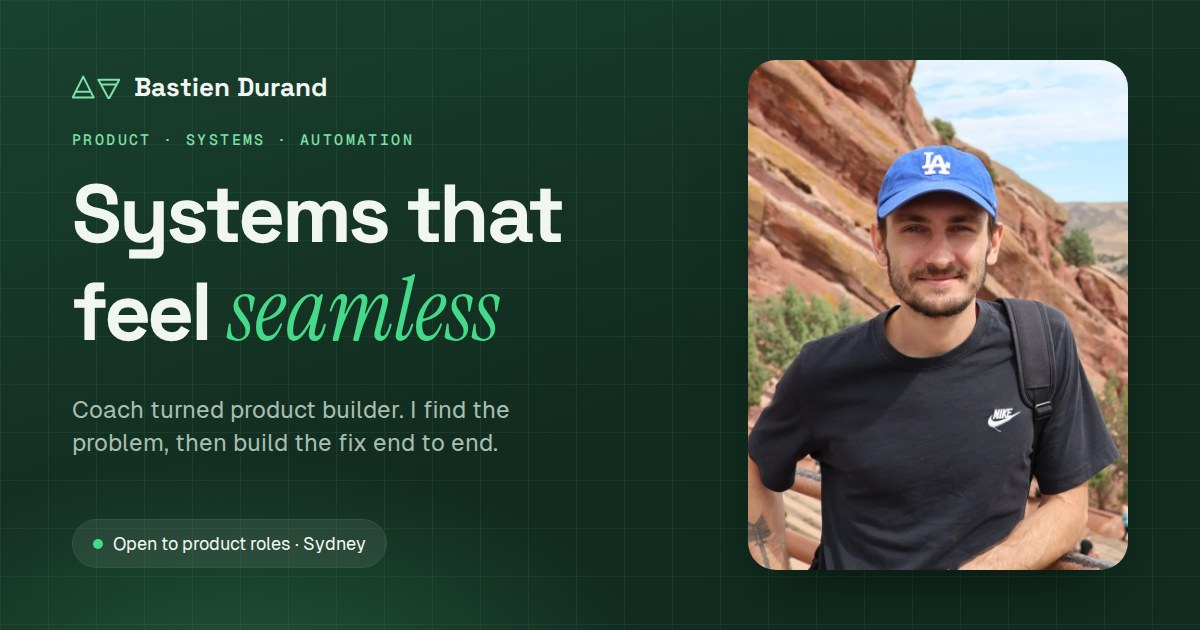
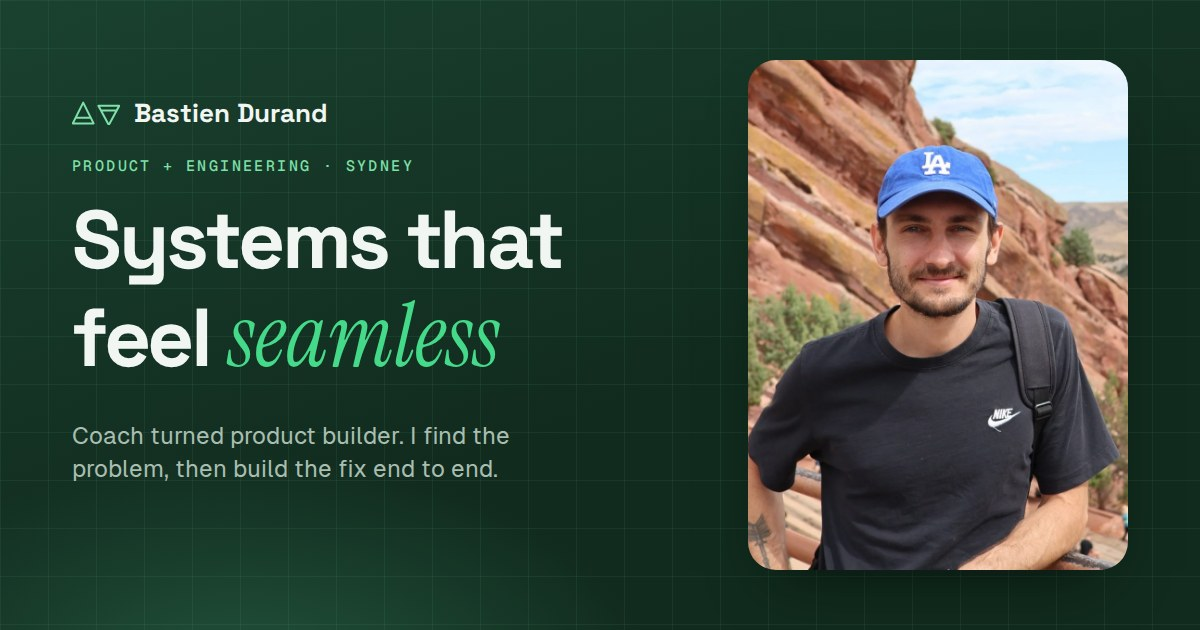
Act on peer feedback: clearer roles, tighter Beyond, no status pill
- Hide the product-tab scrollbar on mobile
- Remove the 'Open to product roles' pill (hero + link preview)
- Hero eyebrow: Product + Engineering; new 'What I'm looking for' section after
  the stats with PM / Technical PM / Full-stack roles
- Beyond the work: drop Startups, Agentic and People
- Bottom section becomes a plain 'Let's talk' contact block

Claude-Session: https://claude.ai/code/session_01ThjWvxZ5Yh3BuYeoYeAW1F

Changed region(s): [[0.0617, 0.1206, 0.4933, 0.6032], [0.0617, 0.6333, 0.4317, 0.754], [0.0617, 0.8444, 0.3083, 0.9048]]

diff --git a/index.html b/index.html
@@ -133,7 +133,8 @@ h1,h2,h3{font-family:var(--display);margin:0;letter-spacing:-.03em;text-wrap:bal
 /* work / switcher */
 .work .wrap{padding-block:96px 40px}
 .work-head{display:flex;justify-content:space-between;align-items:flex-end;gap:32px;flex-wrap:wrap;margin-bottom:40px}
-.tabs{display:flex;gap:6px;background:var(--surface);border:1px solid var(--line);border-radius:999px;padding:5px;overflow-x:auto;max-width:100%}
+.tabs{display:flex;gap:6px;background:var(--surface);border:1px solid var(--line);border-radius:999px;padding:5px;overflow-x:auto;max-width:100%;scrollbar-width:none;-webkit-overflow-scrolling:touch}
+.tabs::-webkit-scrollbar{display:none}
 .tab{flex:none;border:0;cursor:pointer;border-radius:999px;padding:10px 16px;min-height:44px;font:500 14px var(--body);background:transparent;color:var(--muted);white-space:nowrap;transition:background .25s,color .25s}
 .tab[aria-selected="true"]{background:var(--forest);color:var(--on-dark)}
 .product{display:grid;grid-template-columns:380px 1fr;gap:56px;align-items:stretch}
@@ -339,6 +340,21 @@ a.client:hover .c-url{color:var(--green-dk)}
   .p-why{font-size:14px}
 }
 
+
+/* what I'm looking for */
+.seeking .wrap{padding-block:88px;display:grid;grid-template-columns:1fr 1fr;gap:64px;align-items:start}
+.seek-l{display:flex;flex-direction:column;gap:16px}
+.seek-r>p{margin:0 0 22px;font-size:19px;line-height:1.5;color:var(--muted)}
+.roles{list-style:none;margin:0;padding:0;border-top:1px solid var(--line)}
+.roles li{display:flex;justify-content:space-between;align-items:baseline;gap:12px;padding:16px 0;border-bottom:1px solid var(--line)}
+.roles b{font:700 22px var(--display);letter-spacing:-.01em}
+.roles span{font:500 12px var(--mono);color:var(--muted);letter-spacing:.04em;text-align:right}
+.roles li:first-child b{color:var(--green)}
+.seek-meta{display:flex;flex-wrap:wrap;gap:8px;margin-top:18px}
+.seek-meta span{font-size:13px;padding:7px 12px;border-radius:999px;background:var(--green-soft);color:var(--green-dk)}
+.c-sub{margin:0;font-size:17px;color:var(--on-dark-muted)}
+@media (max-width:900px){.seeking .wrap{grid-template-columns:1fr;gap:20px;padding-block:56px}.seek-r>p{font-size:16px}.roles b{font-size:18px}.roles span{font-size:11px}}
+
 /* contact */
 .contact .wrap{padding-block:110px 90px;display:grid;grid-template-columns:1fr 1fr;gap:80px;align-items:start}
 .contact h2{font-size:56px;line-height:1.02}
@@ -421,7 +437,7 @@ a.client:hover .c-url{color:var(--green-dk)}
 <section class="hero">
   <div class="wrap">
     <div class="hero-text">
-      <div class="eyebrow">Product · Systems · Automation · Sydney</div>
+      <div class="eyebrow">Product + Engineering · Sydney</div>
       <h1>Systems that feel <span class="em">seamless</span></h1>
       <p>Coach turned product builder. I find the problem by talking to the people who have it, then build the fix end to end.</p>
       <div class="ctas"><a class="btn btn-green" href="#work">See the work →</a><a class="btn btn-ghost" href="#how">How I work</a></div>
@@ -432,10 +448,9 @@ a.client:hover .c-url{color:var(--green-dk)}
       <svg class="tri-hi" viewBox="0 0 260 230" aria-hidden="true"><path d="M10 10 H250 L130 220 Z" fill="#E7F4EC" stroke="#18844A" stroke-width="4" stroke-linejoin="round"></path><line x1="36" y1="56" x2="224" y2="56" stroke="#18844A" stroke-width="4"></line></svg>
       <div class="tri-label" style="left:450px;top:42px"><b>4</b><span>products</span></div>
       <img class="hero-photo" src="assets/bastien.jpg" alt="Bastien Durand">
-      <div class="chip-open"><i></i>Open to product roles · Sydney</div>
     </div>
     <div class="hero-mobile">
-      <div class="photo"><img src="assets/bastien.jpg" alt="Bastien Durand"><div class="chip-open"><i></i>Open to product roles · Sydney</div></div>
+      <div class="photo"><img src="assets/bastien.jpg" alt="Bastien Durand"></div>
       <div class="tri-pair">
         <div><svg width="44" height="38" viewBox="0 0 300 260" aria-hidden="true"><path d="M10 250 L150 10 L290 250 Z" fill="none" stroke="#18844A" stroke-width="14" stroke-linejoin="round"></path></svg><span><b>11</b>client builds</span></div>
         <div><svg width="44" height="38" viewBox="0 0 260 230" aria-hidden="true"><path d="M10 10 H250 L130 220 Z" fill="#E7F4EC" stroke="#18844A" stroke-width="14" stroke-linejoin="round"></path></svg><span><b>4</b>products</span></div>
@@ -450,6 +465,24 @@ a.client:hover .c-url{color:var(--green-dk)}
     <div class="stat"><b>100<span class="plus">+</span></b><span>discovery conversations</span></div>
     <div class="stat"><b>685<span class="plus">%</span></b><span>club social growth</span></div>
     <div class="stat"><b>EN<span class="dot">·</span>RU<span class="dot">·</span>FR</b><span>languages</span></div>
+  </div>
+</section>
+
+<section class="seeking" id="seeking">
+  <div class="wrap">
+    <div class="seek-l reveal">
+      <div class="eyebrow">What I’m looking for</div>
+      <h2 class="sec-h">A product team that talks to its <span class="em">users</span></h2>
+    </div>
+    <div class="seek-r reveal" style="--d:.15s">
+      <p>Product and engineering in one. I talk to the people with the problem, decide what matters, then ship the fix myself.</p>
+      <ul class="roles" data-stagger="90">
+        <li><b>Product Manager</b><span>Primary focus</span></li>
+        <li><b>Technical PM / Product Owner</b><span>Close to engineering</span></li>
+        <li><b>Full-stack engineer</b><span>Product-minded teams</span></li>
+      </ul>
+      <div class="seek-meta"><span>Health tech a plus</span><span>Sydney</span><span>Discovery-led teams</span></div>
+    </div>
   </div>
 </section>
 
@@ -594,14 +627,7 @@ a.client:hover .c-url{color:var(--green-dk)}
       <div class="tile soft"><div class="center"><span class="badge" role="img" aria-label="Martial arts uniform">🥋</span></div><h3>Jiu-jitsu</h3><p>On the mats at Capincho</p></div>
       <div class="tile"><img src="assets/art.jpg" alt="Monet, Klimt, Hokusai and Kandinsky paintings"><span class="pill">Art &amp; poetry</span></div>
     </div>
-    <div class="pyr" data-stagger="120">
-      <div class="tile soft"><div class="center"><span class="badge"><svg viewBox="0 0 24 24" fill="none" stroke="#18844A" stroke-width="1.6" stroke-linecap="round" stroke-linejoin="round"><path d="M12 3c3.5 2 5 5.5 5 9.5L15 15H9l-2-2.5C7 8.5 8.5 5 12 3z"></path><circle cx="12" cy="9.5" r="1.8"></circle><path d="M9 15l-2.5 3.5L9 18M15 15l2.5 3.5L15 18M11 18.5l1 2.5 1-2.5"></path></svg></span></div><h3>Startups</h3><p>Founder stories, Spark Festival, giving back</p></div>
-      <div class="tile soft"><div class="center"><span class="badge"><svg viewBox="0 0 24 24" fill="none" stroke="#18844A" stroke-width="1.6" stroke-linecap="round" stroke-linejoin="round"><circle cx="12" cy="5" r="2.5"></circle><circle cx="5" cy="18" r="2.5"></circle><circle cx="19" cy="18" r="2.5"></circle><path d="M11 7.3L6.2 15.8M13 7.3l4.8 8.5M7.5 18h9"></path></svg></span></div><h3>Agentic orchestration &amp; systems</h3><p>How AI agents work together</p></div>
-    </div>
-    <div class="pyr one" data-stagger="0">
-      <div class="tile soft dk"><div class="center"><span class="badge"><svg viewBox="0 0 24 24" fill="none" stroke="#7FE0A8" stroke-width="1.6" stroke-linecap="round" stroke-linejoin="round"><circle cx="9" cy="8" r="3.5"></circle><path d="M2.5 20c1-3.5 3.5-5.5 6.5-5.5s5.5 2 6.5 5.5"></path><path d="M16 4.5a3.5 3.5 0 010 7M18.5 14.5c1.5.7 2.5 2.6 3 5.5"></path></svg></span></div><h3>People</h3><p>Connecting with people, the thread through all of it</p></div>
-    </div>
-    <ul class="int-mob" data-stagger="80"><li><span class="ic"><img src="assets/philosophy.jpg" alt=""></span><span><b>Philosophy &amp; psychology</b><small>How people think, and how to think better</small></span></li><li><span class="ic"><img src="assets/art.jpg" alt=""></span><span><b>Art &amp; poetry</b><small>Impressionism to abstraction</small></span></li><li><span class="ic"><span class="emo" aria-hidden="true">🥋</span></span><span><b>Jiu-jitsu</b><small>On the mats at Capincho</small></span></li><li><span class="ic"><svg viewBox="0 0 24 24" fill="none" stroke="#18844A" stroke-width="1.6" stroke-linecap="round" stroke-linejoin="round"><path d="M12 3c3.5 2 5 5.5 5 9.5L15 15H9l-2-2.5C7 8.5 8.5 5 12 3z"></path><circle cx="12" cy="9.5" r="1.8"></circle><path d="M9 15l-2.5 3.5L9 18M15 15l2.5 3.5L15 18M11 18.5l1 2.5 1-2.5"></path></svg></span><span><b>Startups</b><small>Founder stories, Spark Festival, giving back</small></span></li><li><span class="ic"><svg viewBox="0 0 24 24" fill="none" stroke="#18844A" stroke-width="1.6" stroke-linecap="round" stroke-linejoin="round"><circle cx="12" cy="5" r="2.5"></circle><circle cx="5" cy="18" r="2.5"></circle><circle cx="19" cy="18" r="2.5"></circle><path d="M11 7.3L6.2 15.8M13 7.3l4.8 8.5M7.5 18h9"></path></svg></span><span><b>Agentic orchestration &amp; systems</b><small>How AI agents work together</small></span></li><li><span class="ic"><svg viewBox="0 0 24 24" fill="none" stroke="#18844A" stroke-width="1.6" stroke-linecap="round" stroke-linejoin="round"><circle cx="9" cy="8" r="3.5"></circle><path d="M2.5 20c1-3.5 3.5-5.5 6.5-5.5s5.5 2 6.5 5.5"></path><path d="M16 4.5a3.5 3.5 0 010 7M18.5 14.5c1.5.7 2.5 2.6 3 5.5"></path></svg></span><span><b>People</b><small>Connecting with people, the thread through all of it</small></span></li></ul>
+    <ul class="int-mob" data-stagger="80"><li><span class="ic"><img src="assets/philosophy.jpg" alt=""></span><span><b>Philosophy &amp; psychology</b><small>How people think, and how to think better</small></span></li><li><span class="ic"><img src="assets/art.jpg" alt=""></span><span><b>Art &amp; poetry</b><small>Impressionism to abstraction</small></span></li><li><span class="ic"><span class="emo" aria-hidden="true">🥋</span></span><span><b>Jiu-jitsu</b><small>On the mats at Capincho</small></span></li></ul>
     <div class="shelf reveal">
       <div class="shelf-head"><span class="eyebrow">On my shelf</span><span>Books I keep recommending</span></div>
       <div class="shelf-view"><div class="shelf-track"><div class="book b-f"><svg viewBox="0 0 40 34" aria-hidden="true"><path d="M3 3 H37 L20 31 Z" fill="none" stroke="currentColor" stroke-width="2.5" stroke-linejoin="round"></path></svg><b>Super Communicators</b><span>Charles Duhigg</span><img class="cover" src="https://covers.openlibrary.org/b/isbn/9780593243916-L.jpg?default=false" alt="Super Communicators by Charles Duhigg" decoding="async" onerror="this.remove()"></div><div class="book b-m"><svg viewBox="0 0 40 34" aria-hidden="true"><path d="M3 3 H37 L20 31 Z" fill="none" stroke="currentColor" stroke-width="2.5" stroke-linejoin="round"></path></svg><b>Negotiating the Impossible</b><span>Deepak Malhotra</span><img class="cover" src="https://covers.openlibrary.org/b/id/8813974-L.jpg?default=false" alt="Negotiating the Impossible by Deepak Malhotra" decoding="async" onerror="this.remove()"></div><div class="book b-c"><svg viewBox="0 0 40 34" aria-hidden="true"><path d="M3 3 H37 L20 31 Z" fill="none" stroke="currentColor" stroke-width="2.5" stroke-linejoin="round"></path></svg><b>The Design of Everyday Things</b><span>Don Norman</span><img class="cover" src="https://covers.openlibrary.org/b/isbn/9780465050659-L.jpg?default=false" alt="The Design of Everyday Things by Don Norman" decoding="async" onerror="this.remove()"></div><div class="book b-f"><svg viewBox="0 0 40 34" aria-hidden="true"><path d="M3 3 H37 L20 31 Z" fill="none" stroke="currentColor" stroke-width="2.5" stroke-linejoin="round"></path></svg><b>The 6 Disciplines of Strategic Thinking</b><span>Michael D. Watkins</span><img class="cover" src="https://books.google.com/books/content?id=UiHvzwEACAAJ&amp;printsec=frontcover&amp;img=1&amp;zoom=1" alt="The 6 Disciplines of Strategic Thinking by Michael D. Watkins" decoding="async" onerror="this.remove()"></div><div class="book b-m"><svg viewBox="0 0 40 34" aria-hidden="true"><path d="M3 3 H37 L20 31 Z" fill="none" stroke="currentColor" stroke-width="2.5" stroke-linejoin="round"></path></svg><b>The Courage to Be Disliked</b><span>Kishimi &amp; Koga</span><img class="cover" src="https://covers.openlibrary.org/b/isbn/9781501197277-L.jpg?default=false" alt="The Courage to Be Disliked by Kishimi &amp; Koga" decoding="async" onerror="this.remove()"></div><div class="book b-c"><svg viewBox="0 0 40 34" aria-hidden="true"><path d="M3 3 H37 L20 31 Z" fill="none" stroke="currentColor" stroke-width="2.5" stroke-linejoin="round"></path></svg><b>No Bad Parts</b><span>Richard C. Schwartz</span><img class="cover" src="https://covers.openlibrary.org/b/id/10881934-L.jpg?default=false" alt="No Bad Parts by Richard C. Schwartz" decoding="async" onerror="this.remove()"></div><div class="book b-f"><svg viewBox="0 0 40 34" aria-hidden="true"><path d="M3 3 H37 L20 31 Z" fill="none" stroke="currentColor" stroke-width="2.5" stroke-linejoin="round"></path></svg><b>The Myth of Normal</b><span>Gabor Maté</span><img class="cover" src="https://covers.openlibrary.org/b/isbn/9780593083888-L.jpg?default=false" alt="The Myth of Normal by Gabor Maté" decoding="async" onerror="this.remove()"></div><div class="book b-m"><svg viewBox="0 0 40 34" aria-hidden="true"><path d="M3 3 H37 L20 31 Z" fill="none" stroke="currentColor" stroke-width="2.5" stroke-linejoin="round"></path></svg><b>Continuous Discovery Habits</b><span>Teresa Torres</span><img class="cover" src="https://covers.openlibrary.org/b/id/11136152-L.jpg?default=false" alt="Continuous Discovery Habits by Teresa Torres" decoding="async" onerror="this.remove()"></div><div class="book b-c"><svg viewBox="0 0 40 34" aria-hidden="true"><path d="M3 3 H37 L20 31 Z" fill="none" stroke="currentColor" stroke-width="2.5" stroke-linejoin="round"></path></svg><b>Man’s Search for Meaning</b><span>Viktor E. Frankl</span><img class="cover" src="https://covers.openlibrary.org/b/isbn/9780807014295-L.jpg?default=false" alt="Man’s Search for Meaning by Viktor E. Frankl" decoding="async" onerror="this.remove()"></div><div class="book b-f"><svg viewBox="0 0 40 34" aria-hidden="true"><path d="M3 3 H37 L20 31 Z" fill="none" stroke="currentColor" stroke-width="2.5" stroke-linejoin="round"></path></svg><b>Never Split the Difference</b><span>Chris Voss</span><img class="cover" src="https://covers.openlibrary.org/b/id/8365942-L.jpg?default=false" alt="Never Split the Difference by Chris Voss" decoding="async" onerror="this.remove()"></div><div class="book b-m"><svg viewBox="0 0 40 34" aria-hidden="true"><path d="M3 3 H37 L20 31 Z" fill="none" stroke="currentColor" stroke-width="2.5" stroke-linejoin="round"></path></svg><b>The Lean Startup</b><span>Eric Ries</span><img class="cover" src="https://covers.openlibrary.org/b/id/7104760-L.jpg?default=false" alt="The Lean Startup by Eric Ries" decoding="async" onerror="this.remove()"></div><div class="book b-c"><svg viewBox="0 0 40 34" aria-hidden="true"><path d="M3 3 H37 L20 31 Z" fill="none" stroke="currentColor" stroke-width="2.5" stroke-linejoin="round"></path></svg><b>The Obstacle Is the Way</b><span>Ryan Holiday</span><img class="cover" src="https://covers.openlibrary.org/b/id/14428233-L.jpg?default=false" alt="The Obstacle Is the Way by Ryan Holiday" decoding="async" onerror="this.remove()"></div><div class="book b-f"><svg viewBox="0 0 40 34" aria-hidden="true"><path d="M3 3 H37 L20 31 Z" fill="none" stroke="currentColor" stroke-width="2.5" stroke-linejoin="round"></path></svg><b>Ego Is the Enemy</b><span>Ryan Holiday</span><img class="cover" src="https://covers.openlibrary.org/b/id/12447129-L.jpg?default=false" alt="Ego Is the Enemy by Ryan Holiday" decoding="async" onerror="this.remove()"></div><div class="book b-m"><svg viewBox="0 0 40 34" aria-hidden="true"><path d="M3 3 H37 L20 31 Z" fill="none" stroke="currentColor" stroke-width="2.5" stroke-linejoin="round"></path></svg><b>The Artist’s Way</b><span>Julia Cameron</span><img class="cover" src="https://covers.openlibrary.org/b/id/10840008-L.jpg?default=false" alt="The Artist’s Way by Julia Cameron" decoding="async" onerror="this.remove()"></div><div class="book b-c"><svg viewBox="0 0 40 34" aria-hidden="true"><path d="M3 3 H37 L20 31 Z" fill="none" stroke="currentColor" stroke-width="2.5" stroke-linejoin="round"></path></svg><b>The Body Keeps the Score</b><span>Bessel van der Kolk</span><img class="cover" src="https://covers.openlibrary.org/b/id/8315367-L.jpg?default=false" alt="The Body Keeps the Score by Bessel van der Kolk" decoding="async" onerror="this.remove()"></div><div class="book b-f"><svg viewBox="0 0 40 34" aria-hidden="true"><path d="M3 3 H37 L20 31 Z" fill="none" stroke="currentColor" stroke-width="2.5" stroke-linejoin="round"></path></svg><b>Leaders Eat Last</b><span>Simon Sinek</span><img class="cover" src="https://covers.openlibrary.org/b/id/8246311-L.jpg?default=false" alt="Leaders Eat Last by Simon Sinek" decoding="async" onerror="this.remove()"></div><div class="book b-m"><svg viewBox="0 0 40 34" aria-hidden="true"><path d="M3 3 H37 L20 31 Z" fill="none" stroke="currentColor" stroke-width="2.5" stroke-linejoin="round"></path></svg><b>Winning the Brain Game</b><span>Matthew E. May</span><img class="cover" src="https://covers.openlibrary.org/b/id/12859129-L.jpg?default=false" alt="Winning the Brain Game by Matthew E. May" decoding="async" onerror="this.remove()"></div><div class="book b-c"><svg viewBox="0 0 40 34" aria-hidden="true"><path d="M3 3 H37 L20 31 Z" fill="none" stroke="currentColor" stroke-width="2.5" stroke-linejoin="round"></path></svg><b>Don’t Make Me Think</b><span>Steve Krug</span><img class="cover" src="https://covers.openlibrary.org/b/id/554640-L.jpg?default=false" alt="Don’t Make Me Think by Steve Krug" decoding="async" onerror="this.remove()"></div><div class="book b-f"><svg viewBox="0 0 40 34" aria-hidden="true"><path d="M3 3 H37 L20 31 Z" fill="none" stroke="currentColor" stroke-width="2.5" stroke-linejoin="round"></path></svg><b>The Art of War</b><span>Sun Tzu</span><img class="cover" src="https://covers.openlibrary.org/b/id/4849549-L.jpg?default=false" alt="The Art of War by Sun Tzu" decoding="async" onerror="this.remove()"></div><div class="book b-m"><svg viewBox="0 0 40 34" aria-hidden="true"><path d="M3 3 H37 L20 31 Z" fill="none" stroke="currentColor" stroke-width="2.5" stroke-linejoin="round"></path></svg><b>Growth Hacker Marketing</b><span>Ryan Holiday</span><img class="cover" src="https://covers.openlibrary.org/b/id/12196005-L.jpg?default=false" alt="Growth Hacker Marketing by Ryan Holiday" decoding="async" onerror="this.remove()"></div><div class="book b-c"><svg viewBox="0 0 40 34" aria-hidden="true"><path d="M3 3 H37 L20 31 Z" fill="none" stroke="currentColor" stroke-width="2.5" stroke-linejoin="round"></path></svg><b>Confident Closing</b><span>Chandell Labbozzetta</span><img class="cover" src="https://books.google.com/books/content?id=JkhUrgEACAAJ&amp;printsec=frontcover&amp;img=1&amp;zoom=1" alt="Confident Closing by Chandell Labbozzetta" decoding="async" onerror="this.remove()"></div><div class="book b-f"><svg viewBox="0 0 40 34" aria-hidden="true"><path d="M3 3 H37 L20 31 Z" fill="none" stroke="currentColor" stroke-width="2.5" stroke-linejoin="round"></path></svg><b>Algorithms</b><span>Panos Louridas</span><img class="cover" src="https://covers.openlibrary.org/b/id/14357815-L.jpg?default=false" alt="Algorithms by Panos Louridas" decoding="async" onerror="this.remove()"></div><div class="book b-m"><svg viewBox="0 0 40 34" aria-hidden="true"><path d="M3 3 H37 L20 31 Z" fill="none" stroke="currentColor" stroke-width="2.5" stroke-linejoin="round"></path></svg><b>Thinking in Bets</b><span>Annie Duke</span><img class="cover" src="https://covers.openlibrary.org/b/id/8792782-L.jpg?default=false" alt="Thinking in Bets by Annie Duke" decoding="async" onerror="this.remove()"></div><div class="dup" aria-hidden="true" style="display:contents"><div class="book b-f"><svg viewBox="0 0 40 34" aria-hidden="true"><path d="M3 3 H37 L20 31 Z" fill="none" stroke="currentColor" stroke-width="2.5" stroke-linejoin="round"></path></svg><b>Super Communicators</b><span>Charles Duhigg</span><img class="cover" src="https://covers.openlibrary.org/b/isbn/9780593243916-L.jpg?default=false" alt="Super Communicators by Charles Duhigg" decoding="async" onerror="this.remove()"></div><div class="book b-m"><svg viewBox="0 0 40 34" aria-hidden="true"><path d="M3 3 H37 L20 31 Z" fill="none" stroke="currentColor" stroke-width="2.5" stroke-linejoin="round"></path></svg><b>Negotiating the Impossible</b><span>Deepak Malhotra</span><img class="cover" src="https://covers.openlibrary.org/b/id/8813974-L.jpg?default=false" alt="Negotiating the Impossible by Deepak Malhotra" decoding="async" onerror="this.remove()"></div><div class="book b-c"><svg viewBox="0 0 40 34" aria-hidden="true"><path d="M3 3 H37 L20 31 Z" fill="none" stroke="currentColor" stroke-width="2.5" stroke-linejoin="round"></path></svg><b>The Design of Everyday Things</b><span>Don Norman</span><img class="cover" src="https://covers.openlibrary.org/b/isbn/9780465050659-L.jpg?default=false" alt="The Design of Everyday Things by Don Norman" decoding="async" onerror="this.remove()"></div><div class="book b-f"><svg viewBox="0 0 40 34" aria-hidden="true"><path d="M3 3 H37 L20 31 Z" fill="none" stroke="currentColor" stroke-width="2.5" stroke-linejoin="round"></path></svg><b>The 6 Disciplines of Strategic Thinking</b><span>Michael D. Watkins</span><img class="cover" src="https://books.google.com/books/content?id=UiHvzwEACAAJ&amp;printsec=frontcover&amp;img=1&amp;zoom=1" alt="The 6 Disciplines of Strategic Thinking by Michael D. Watkins" decoding="async" onerror="this.remove()"></div><div class="book b-m"><svg viewBox="0 0 40 34" aria-hidden="true"><path d="M3 3 H37 L20 31 Z" fill="none" stroke="currentColor" stroke-width="2.5" stroke-linejoin="round"></path></svg><b>The Courage to Be Disliked</b><span>Kishimi &amp; Koga</span><img class="cover" src="https://covers.openlibrary.org/b/isbn/9781501197277-L.jpg?default=false" alt="The Courage to Be Disliked by Kishimi &amp; Koga" decoding="async" onerror="this.remove()"></div><div class="book b-c"><svg viewBox="0 0 40 34" aria-hidden="true"><path d="M3 3 H37 L20 31 Z" fill="none" stroke="currentColor" stroke-width="2.5" stroke-linejoin="round"></path></svg><b>No Bad Parts</b><span>Richard C. Schwartz</span><img class="cover" src="https://covers.openlibrary.org/b/id/10881934-L.jpg?default=false" alt="No Bad Parts by Richard C. Schwartz" decoding="async" onerror="this.remove()"></div><div class="book b-f"><svg viewBox="0 0 40 34" aria-hidden="true"><path d="M3 3 H37 L20 31 Z" fill="none" stroke="currentColor" stroke-width="2.5" stroke-linejoin="round"></path></svg><b>The Myth of Normal</b><span>Gabor Maté</span><img class="cover" src="https://covers.openlibrary.org/b/isbn/9780593083888-L.jpg?default=false" alt="The Myth of Normal by Gabor Maté" decoding="async" onerror="this.remove()"></div><div class="book b-m"><svg viewBox="0 0 40 34" aria-hidden="true"><path d="M3 3 H37 L20 31 Z" fill="none" stroke="currentColor" stroke-width="2.5" stroke-linejoin="round"></path></svg><b>Continuous Discovery Habits</b><span>Teresa Torres</span><img class="cover" src="https://covers.openlibrary.org/b/id/11136152-L.jpg?default=false" alt="Continuous Discovery Habits by Teresa Torres" decoding="async" onerror="this.remove()"></div><div class="book b-c"><svg viewBox="0 0 40 34" aria-hidden="true"><path d="M3 3 H37 L20 31 Z" fill="none" stroke="currentColor" stroke-width="2.5" stroke-linejoin="round"></path></svg><b>Man’s Search for Meaning</b><span>Viktor E. Frankl</span><img class="cover" src="https://covers.openlibrary.org/b/isbn/9780807014295-L.jpg?default=false" alt="Man’s Search for Meaning by Viktor E. Frankl" decoding="async" onerror="this.remove()"></div><div class="book b-f"><svg viewBox="0 0 40 34" aria-hidden="true"><path d="M3 3 H37 L20 31 Z" fill="none" stroke="currentColor" stroke-width="2.5" stroke-linejoin="round"></path></svg><b>Never Split the Difference</b><span>Chris Voss</span><img class="cover" src="https://covers.openlibrary.org/b/id/8365942-L.jpg?default=false" alt="Never Split the Difference by Chris Voss" decoding="async" onerror="this.remove()"></div><div class="book b-m"><svg viewBox="0 0 40 34" aria-hidden="true"><path d="M3 3 H37 L20 31 Z" fill="none" stroke="currentColor" stroke-width="2.5" stroke-linejoin="round"></path></svg><b>The Lean Startup</b><span>Eric Ries</span><img class="cover" src="https://covers.openlibrary.org/b/id/7104760-L.jpg?default=false" alt="The Lean Startup by Eric Ries" decoding="async" onerror="this.remove()"></div><div class="book b-c"><svg viewBox="0 0 40 34" aria-hidden="true"><path d="M3 3 H37 L20 31 Z" fill="none" stroke="currentColor" stroke-width="2.5" stroke-linejoin="round"></path></svg><b>The Obstacle Is the Way</b><span>Ryan Holiday</span><img class="cover" src="https://covers.openlibrary.org/b/id/14428233-L.jpg?default=false" alt="The Obstacle Is the Way by Ryan Holiday" decoding="async" onerror="this.remove()"></div><div class="book b-f"><svg viewBox="0 0 40 34" aria-hidden="true"><path d="M3 3 H37 L20 31 Z" fill="none" stroke="currentColor" stroke-width="2.5" stroke-linejoin="round"></path></svg><b>Ego Is the Enemy</b><span>Ryan Holiday</span><img class="cover" src="https://covers.openlibrary.org/b/id/12447129-L.jpg?default=false" alt="Ego Is the Enemy by Ryan Holiday" decoding="async" onerror="this.remove()"></div><div class="book b-m"><svg viewBox="0 0 40 34" aria-hidden="true"><path d="M3 3 H37 L20 31 Z" fill="none" stroke="currentColor" stroke-width="2.5" stroke-linejoin="round"></path></svg><b>The Artist’s Way</b><span>Julia Cameron</span><img class="cover" src="https://covers.openlibrary.org/b/id/10840008-L.jpg?default=false" alt="The Artist’s Way by Julia Cameron" decoding="async" onerror="this.remove()"></div><div class="book b-c"><svg viewBox="0 0 40 34" aria-hidden="true"><path d="M3 3 H37 L20 31 Z" fill="none" stroke="currentColor" stroke-width="2.5" stroke-linejoin="round"></path></svg><b>The Body Keeps the Score</b><span>Bessel van der Kolk</span><img class="cover" src="https://covers.openlibrary.org/b/id/8315367-L.jpg?default=false" alt="The Body Keeps the Score by Bessel van der Kolk" decoding="async" onerror="this.remove()"></div><div class="book b-f"><svg viewBox="0 0 40 34" aria-hidden="true"><path d="M3 3 H37 L20 31 Z" fill="none" stroke="currentColor" stroke-width="2.5" stroke-linejoin="round"></path></svg><b>Leaders Eat Last</b><span>Simon Sinek</span><img class="cover" src="https://covers.openlibrary.org/b/id/8246311-L.jpg?default=false" alt="Leaders Eat Last by Simon Sinek" decoding="async" onerror="this.remove()"></div><div class="book b-m"><svg viewBox="0 0 40 34" aria-hidden="true"><path d="M3 3 H37 L20 31 Z" fill="none" stroke="currentColor" stroke-width="2.5" stroke-linejoin="round"></path></svg><b>Winning the Brain Game</b><span>Matthew E. May</span><img class="cover" src="https://covers.openlibrary.org/b/id/12859129-L.jpg?default=false" alt="Winning the Brain Game by Matthew E. May" decoding="async" onerror="this.remove()"></div><div class="book b-c"><svg viewBox="0 0 40 34" aria-hidden="true"><path d="M3 3 H37 L20 31 Z" fill="none" stroke="currentColor" stroke-width="2.5" stroke-linejoin="round"></path></svg><b>Don’t Make Me Think</b><span>Steve Krug</span><img class="cover" src="https://covers.openlibrary.org/b/id/554640-L.jpg?default=false" alt="Don’t Make Me Think by Steve Krug" decoding="async" onerror="this.remove()"></div><div class="book b-f"><svg viewBox="0 0 40 34" aria-hidden="true"><path d="M3 3 H37 L20 31 Z" fill="none" stroke="currentColor" stroke-width="2.5" stroke-linejoin="round"></path></svg><b>The Art of War</b><span>Sun Tzu</span><img class="cover" src="https://covers.openlibrary.org/b/id/4849549-L.jpg?default=false" alt="The Art of War by Sun Tzu" decoding="async" onerror="this.remove()"></div><div class="book b-m"><svg viewBox="0 0 40 34" aria-hidden="true"><path d="M3 3 H37 L20 31 Z" fill="none" stroke="currentColor" stroke-width="2.5" stroke-linejoin="round"></path></svg><b>Growth Hacker Marketing</b><span>Ryan Holiday</span><img class="cover" src="https://covers.openlibrary.org/b/id/12196005-L.jpg?default=false" alt="Growth Hacker Marketing by Ryan Holiday" decoding="async" onerror="this.remove()"></div><div class="book b-c"><svg viewBox="0 0 40 34" aria-hidden="true"><path d="M3 3 H37 L20 31 Z" fill="none" stroke="currentColor" stroke-width="2.5" stroke-linejoin="round"></path></svg><b>Confident Closing</b><span>Chandell Labbozzetta</span><img class="cover" src="https://books.google.com/books/content?id=JkhUrgEACAAJ&amp;printsec=frontcover&amp;img=1&amp;zoom=1" alt="Confident Closing by Chandell Labbozzetta" decoding="async" onerror="this.remove()"></div><div class="book b-f"><svg viewBox="0 0 40 34" aria-hidden="true"><path d="M3 3 H37 L20 31 Z" fill="none" stroke="currentColor" stroke-width="2.5" stroke-linejoin="round"></path></svg><b>Algorithms</b><span>Panos Louridas</span><img class="cover" src="https://covers.openlibrary.org/b/id/14357815-L.jpg?default=false" alt="Algorithms by Panos Louridas" decoding="async" onerror="this.remove()"></div><div class="book b-m"><svg viewBox="0 0 40 34" aria-hidden="true"><path d="M3 3 H37 L20 31 Z" fill="none" stroke="currentColor" stroke-width="2.5" stroke-linejoin="round"></path></svg><b>Thinking in Bets</b><span>Annie Duke</span><img class="cover" src="https://covers.openlibrary.org/b/id/8792782-L.jpg?default=false" alt="Thinking in Bets by Annie Duke" decoding="async" onerror="this.remove()"></div></div></div></div>
@@ -612,9 +638,9 @@ a.client:hover .c-url{color:var(--green-dk)}
 <section class="contact dark" id="contact">
   <div class="wrap">
     <div class="c-left" data-stagger="140">
-      <div class="eyebrow">What I’m looking for</div>
-      <h2>A product team that talks to its <span class="em">users</span></h2>
-      <div class="tags"><span>Product Manager</span><span>Discovery-led teams</span><span>Sydney</span></div>
+      <div class="eyebrow">Let’s talk</div>
+      <h2>Building something people <span class="em">need?</span></h2>
+      <p class="c-sub">I’m quickest on WhatsApp. Coffee in Sydney works too.</p>
     </div>
     <div class="c-right" data-stagger="120">
       <a class="c-card" href="https://wa.me/61451604063" target="_blank" rel="noopener"><span><small>WhatsApp</small><span>0451 604 063</span></span><span class="arrow">→</span></a>
